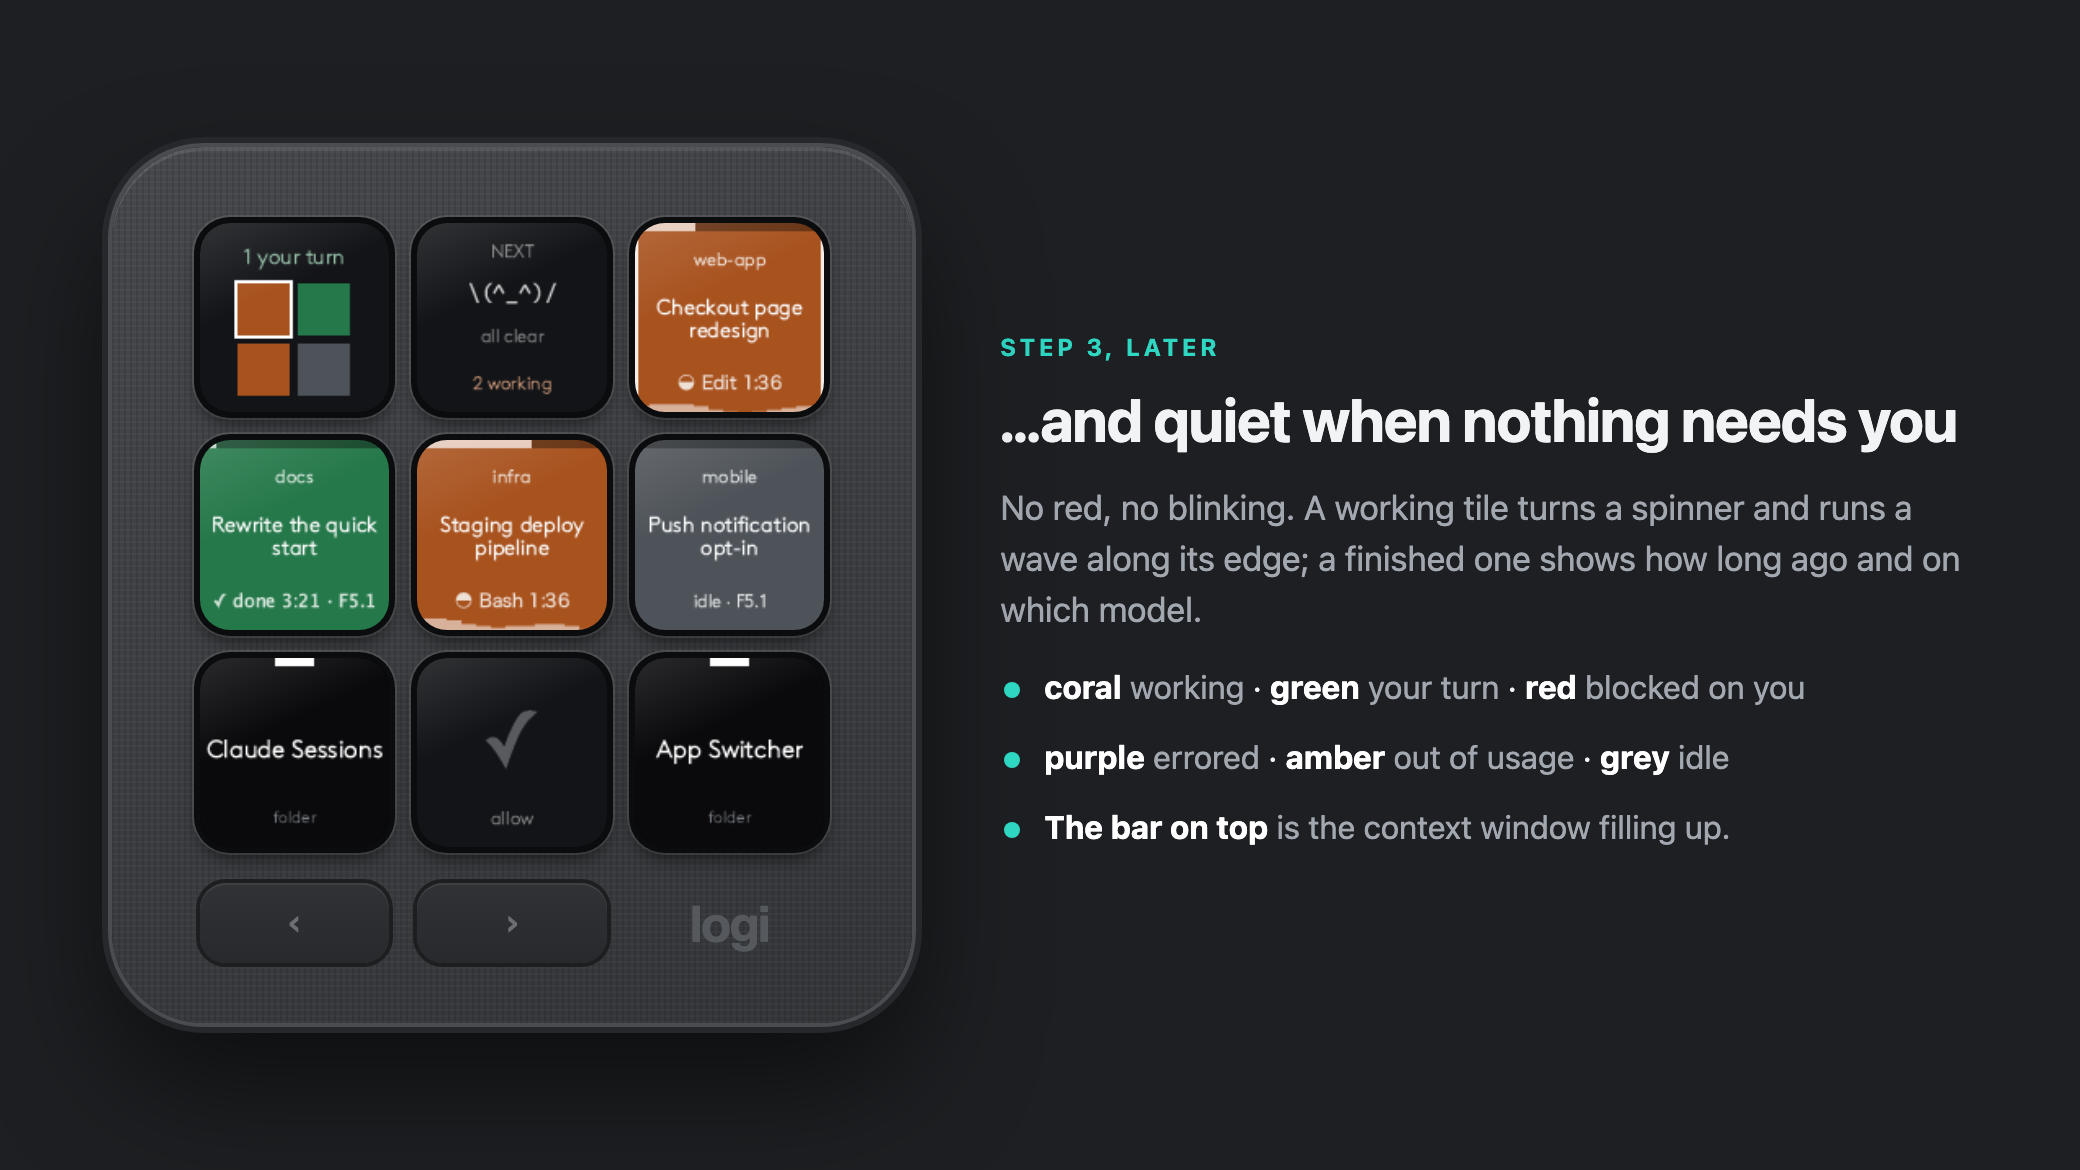
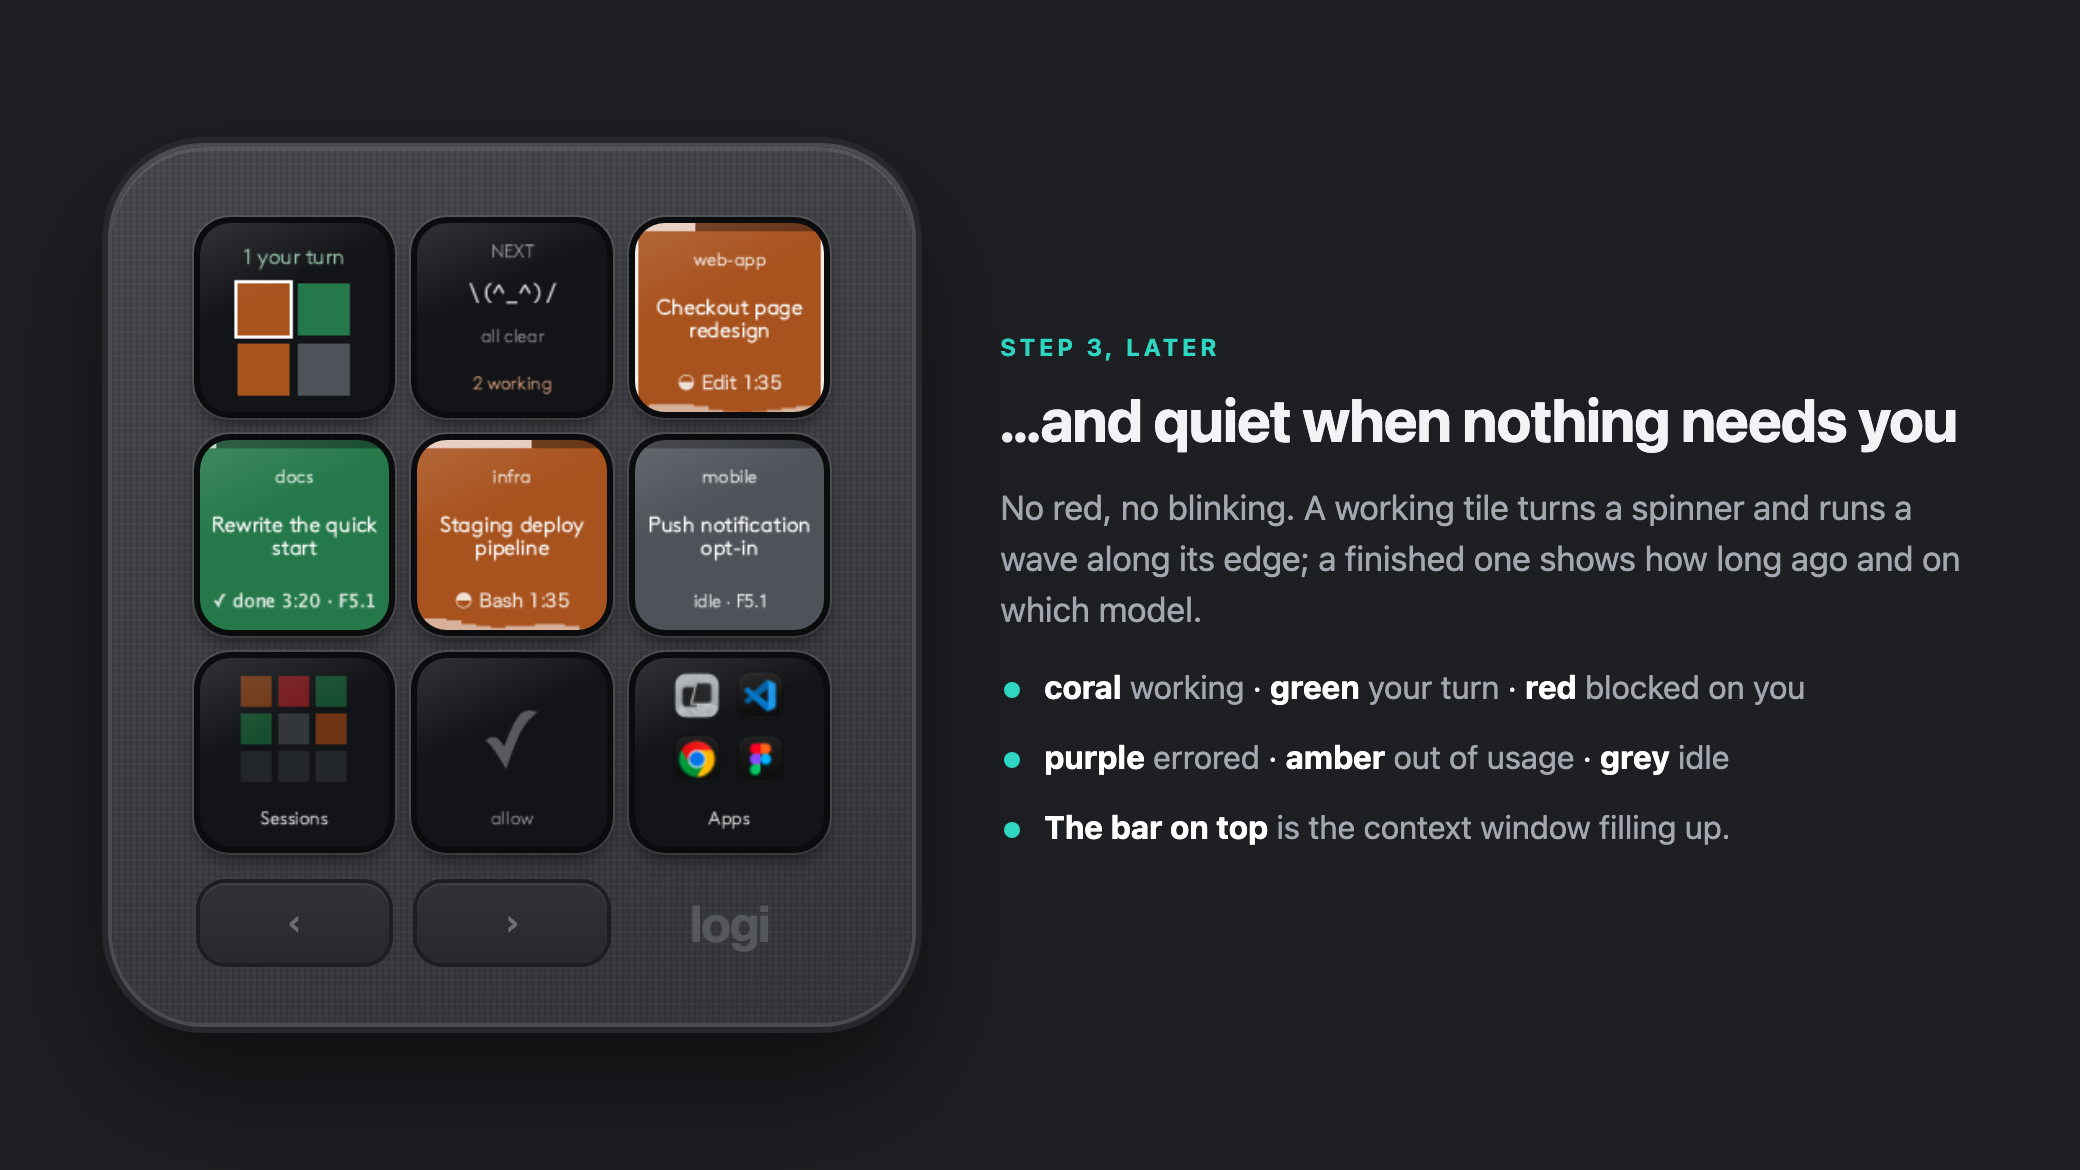
The two folder keys are drawn by the plugin
Claude Sessions is the deck in miniature, App Switcher the first four
apps as their icons - in place of the host's name-over-a-folder default.
The guide's pictures use the real keys instead of an approximation.

Changed region(s): [[0.0938, 0.5538, 0.1875, 0.7077], [0.3125, 0.5538, 0.375, 0.7077]]

diff --git a/plugin/src/Rendering/TileRenderer.cs b/plugin/src/Rendering/TileRenderer.cs
@@ -782,6 +782,80 @@ namespace Loupedeck.ClaudeDeckPlugin
             return b.ToImage();
         }
 
+        // ---- folder buttons -----------------------------------------------------------------
+        //
+        // The keys that open the two folders, drawn by the plugin rather than left to the host's
+        // "name over a folder" default, so they look like what they open. The host asks for these
+        // when it lays out the page and does not offer a way to repaint them, so they carry
+        // nothing that goes stale.
+
+        // Claude Sessions: the deck in miniature - a 3x3 of keys in the state colours, dimmed to an
+        // emblem so it is not mistaken for the live Overview key next to it.
+        public static BitmapImage SessionsFolder(PluginImageSize size)
+        {
+            using var b = new BitmapBuilder(size);
+            var w = b.Width;
+            var h = b.Height;
+            b.Clear(Empty);
+
+            BitmapColor[] keys =
+            {
+                Busy, Attention, Done,
+                Done, Idle, Busy,
+                Neutral, Neutral, Neutral,
+            };
+            var cell = (Int32)(w * 0.17);
+            var gap = Math.Max(3, (Int32)(w * 0.04));
+            var grid = (3 * cell) + (2 * gap);
+            var x0 = (w - grid) / 2;
+            var y0 = (Int32)(h * 0.10);
+            for (var i = 0; i < keys.Length; i++)
+            {
+                b.FillRectangle(x0 + ((i % 3) * (cell + gap)), y0 + ((i / 3) * (cell + gap)), cell, cell, Shade(keys[i], 0.35));
+            }
+
+            Foot(b, "Sessions", Bright);
+            return b.ToImage();
+        }
+
+        // App Switcher: the first four apps of the switcher, as a 2x2 of their icons - the same
+        // pinned-then-recent order the folder opens with. Without the helper, four quiet squares.
+        public static BitmapImage AppsFolder(IReadOnlyList<AppInfo> first, PluginImageSize size)
+        {
+            using var b = new BitmapBuilder(size);
+            var w = b.Width;
+            var h = b.Height;
+            b.Clear(Empty);
+
+            var cell = (Int32)(w * 0.30);
+            var gap = Math.Max(3, (Int32)(w * 0.05));
+            var grid = (2 * cell) + gap;
+            var x0 = (w - grid) / 2;
+            var y0 = (Int32)(h * 0.06);
+            for (var i = 0; i < 4; i++)
+            {
+                var x = x0 + ((i % 2) * (cell + gap));
+                var y = y0 + ((i / 2) * (cell + gap));
+                var app = i < first.Count ? first[i] : null;
+                var icon = app != null ? IconBytes(app.Icon) : null;
+                if (icon != null)
+                {
+                    b.DrawImage(icon, x, y, cell, cell, BitmapRotation.None);
+                }
+                else
+                {
+                    b.FillRectangle(x, y, cell, cell, Tint(Empty, 0.12));
+                    if (app != null)
+                    {
+                        DrawCentred(b, Initial(app.Name), y + (cell / 2), (Int32)(cell * 0.6), Bright);
+                    }
+                }
+            }
+
+            Foot(b, "Apps", Bright);
+            return b.ToImage();
+        }
+
         // ---- app switcher -------------------------------------------------------------------
 
         private static readonly System.Collections.Concurrent.ConcurrentDictionary<String, Byte[]> Icons = new();

diff --git a/plugin/src/Actions/AppSwitcherFolder.cs b/plugin/src/Actions/AppSwitcherFolder.cs
@@ -33,6 +33,13 @@ namespace Loupedeck.ClaudeDeckPlugin
         public override PluginDynamicFolderNavigation GetNavigationArea(DeviceType deviceType) =>
             PluginDynamicFolderNavigation.ButtonArea;
 
+        // The key that opens the folder: the first four apps it would show, as they stand when the
+        // page is laid out.
+        public override BitmapImage GetButtonImage(PluginImageSize imageSize) =>
+            TileRenderer.AppsFolder(Order(Watcher.Apps, Watcher.Recent).Take(4).Select(Watcher.Find).Where(a => a != null).ToList(), imageSize);
+
+        public override String GetButtonDisplayName(PluginImageSize imageSize) => "";
+
         public override Boolean Activate()
         {
             this._open = true;

diff --git a/plugin/src/Actions/SessionsFolder.cs b/plugin/src/Actions/SessionsFolder.cs
@@ -69,6 +69,11 @@ namespace Loupedeck.ClaudeDeckPlugin
         public override PluginDynamicFolderNavigation GetNavigationArea(DeviceType deviceType) =>
             PluginDynamicFolderNavigation.ButtonArea;
 
+        // The key that opens the folder, on whatever page it is placed.
+        public override BitmapImage GetButtonImage(PluginImageSize imageSize) => TileRenderer.SessionsFolder(imageSize);
+
+        public override String GetButtonDisplayName(PluginImageSize imageSize) => "";
+
         public override Boolean Activate()
         {
             this._open = true;
